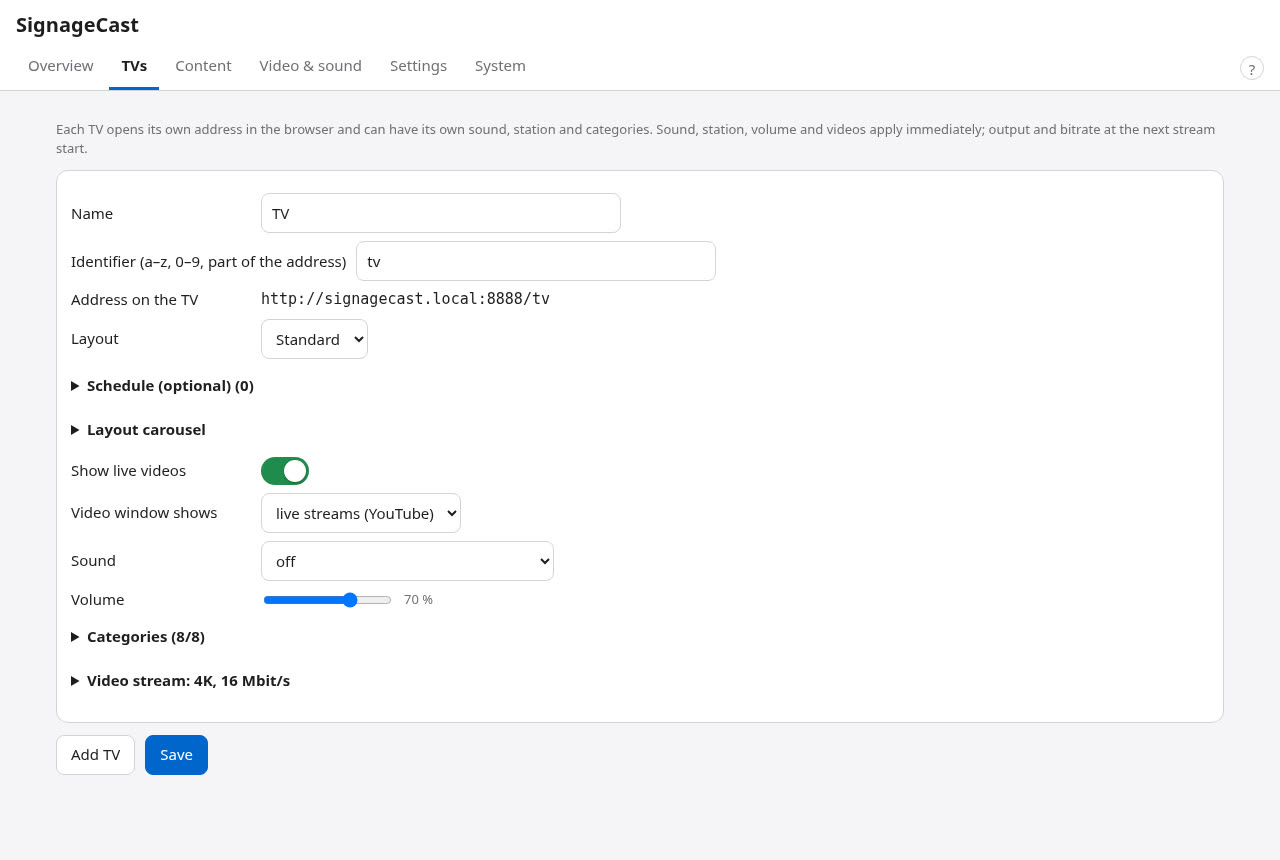
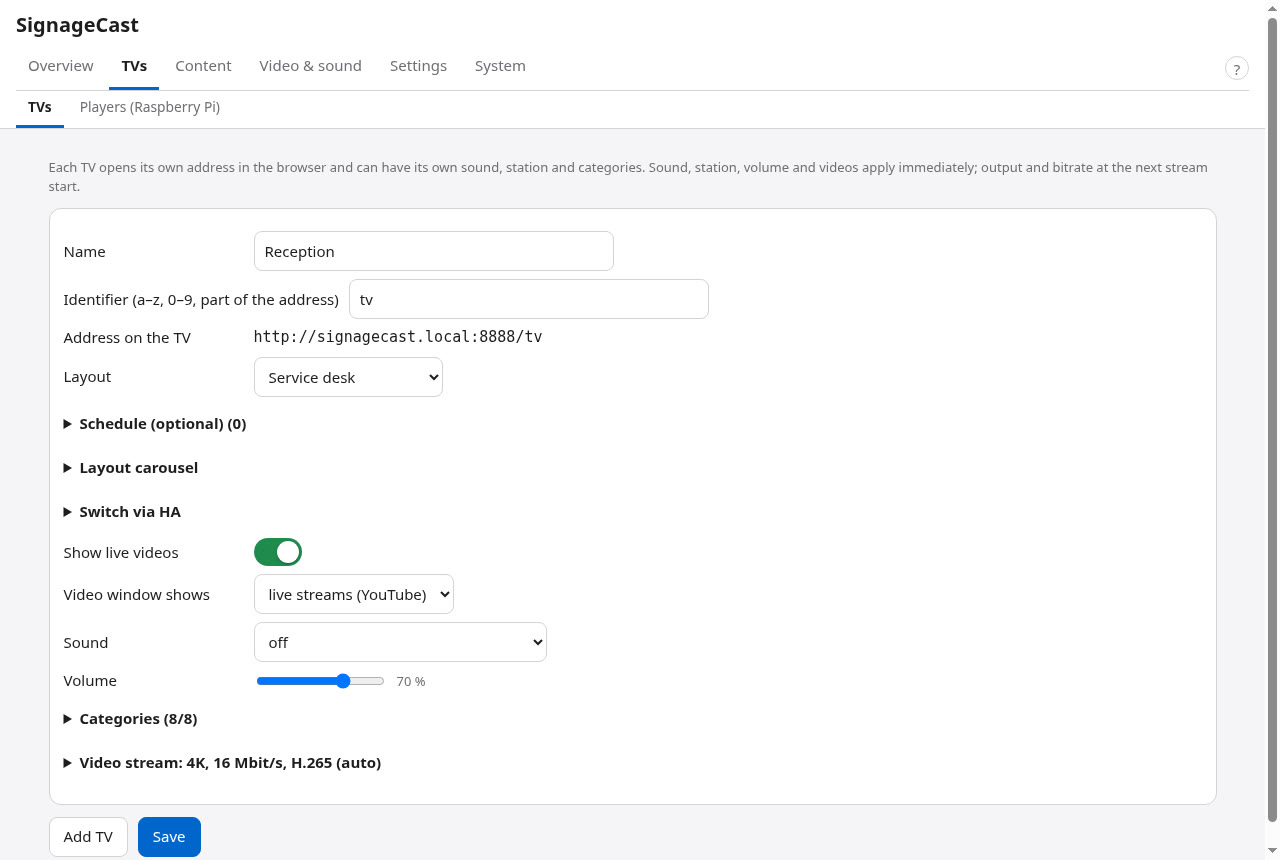
Tour: Bilder für 0.20–0.23 (PDF, Webseite als Foto, Zeitraum, Notfall, Kodierung, Raspberry-Pi-Player)
Neu: Empfangs-Layout am Fernseher, Notfall-Vollbild, Kodierung je Fernseher,
Player-Seite (simulierter Pi), Editor mit Zeitraum; Bild „TVs“ neu aufgenommen.
Überschriften neu nummeriert, deutsche Kurzfassung ergänzt.

Claude-Session: https://claude.ai/code/session_01LNDhmfSQXqarshduJ2BAH1

diff --git a/docs/TOUR.md b/docs/TOUR.md
@@ -2,7 +2,7 @@
 
 A walk through SignageCast: what the TV shows and how you set it up in the browser. All pictures are from a demo
 installation (location Berlin, public example data, no Home Assistant connected). The admin pictures show versions
-0.17–0.19 with the six areas Overview, TVs, Content, Video & sound, Settings and System.
+0.17–0.23 with the six areas Overview, TVs, Content, Video & sound, Settings and System.
 
 [← README](../README.md) · [installation](INSTALL.md) · [manual](MANUAL.md) · [how it works](HOW-IT-WORKS.md)
 
@@ -23,30 +23,59 @@ ticker, a QR code and a countdown. Background: city picture set by time of day (
 
 ![Data dashboard on the TV](tour/02-tv-data-dashboard.jpg)
 
+### 3. Service desk with PDF, web page and period
+A reception layout: a **PDF** (price list and opening hours, the pages change by the clock), a **web page as
+screenshot** – GitHub forbids embedding, so SignageCast loads the page itself and shows a fresh picture every 30 minutes
+– and a notice with a **period**: “Closed from 24 December …” appears on 1 November and disappears by itself.
+
+![Service desk layout with PDF, web page screenshot and holiday notice](tour/02a-tv-service-desk.jpg)
+
+### 4. Emergency screen
+One click in the admin, from the announcement panel or by webhook: a red full screen with your text above every
+layout, also at night (“black”), optionally with a warning tone every 10 seconds.
+
+![Emergency screen on the TV](tour/02b-tv-emergency.jpg)
+
 ---
 
 ## The admin page
 
-### 3. Inside Cockpit
+### 5. Inside Cockpit
 On Proxmox LXC and native Debian installations the admin is a Cockpit extension – “SignageCast” is just a menu entry
 next to Cockpit's own pages. If your server already runs Cockpit, SignageCast integrates there.
 
 ![SignageCast as a menu entry in Cockpit](tour/03-cockpit.jpg)
 
-### 4. Overview
+### 6. Overview
 At the top a **to-do list**: problems first (e.g. Home Assistant not reachable), then tips (automatic backup off, no
 notification set up) – each entry links to the page where you fix it. Below, every TV with its state and sound, viewers, weather source, time check against NTP (“time from the host,
 synchronised”), video encoding (graphics unit or software fallback), Home Assistant connection, CPU, RAM, uptime.
 
 ![Overview](tour/04-overview.jpg)
 
-### 5. TVs
+### 7. TVs
 Each TV has its own address, layout, optional schedule (other layout or black at certain times), sound (radio or the
 original sound of the cams), volume, categories and video settings (4K/Full HD, bitrate).
 
 ![TV settings](tour/05-tvs.jpg)
 
-### 6. Layouts and editor
+Under *Video stream* → **Encoding (advanced)**: encoder (Automatic, Intel/AMD graphics, Quick Sync, NVENC, software),
+preset, tune and B-frames per TV. A change is tried briefly first; if it does not work here, SignageCast stays with
+“Automatic”. Fields that do not apply to the active encoder are explained right there.
+
+![Encoding settings per TV](tour/05a-encoding.jpg)
+
+### 8. Raspberry Pi as player (experimental)
+TVs → *Players (Raspberry Pi)*: a Pi at the TV plays the finished stream via HDMI – also on TVs without a usable
+browser. Enter a name, pick the TV and the network (LAN or Wi-Fi), download a ready image and write it to an SD card;
+nothing to type on the Pi. Afterwards every Pi is managed here: online state, model, IP, Wi-Fi signal, screen, video,
+temperature, a screenshot of what it shows, buttons for screenshot, TV on/off (HDMI-CEC), restart and system update,
+and Wi-Fi changes with automatic return to the old network. The Pi in this picture is simulated – the player has not
+been tested on real hardware yet ([details](PLAYER.md)).
+
+![Players page with one Raspberry Pi](tour/05b-players.jpg)
+
+### 9. Layouts and editor
 Content → Layouts starts with all layouts as tiles – mini preview, on which TV each one is shown, edit, and copy /
 export / delete in the “⋯” menu. “New layout” asks for a name and a starting point (empty, template or copy), so an
 existing layout is never overwritten.
@@ -59,77 +88,83 @@ data source's response. Click the same spot again to reach stacked elements, Tab
 
 ![Layout editor with layers and path picker](tour/06-layout-editor.jpg)
 
-### 7. Data sources
+Every element can be limited to a **period** (“Only during …”: date, optionally with time) – the ⏱ in the layers and on
+the canvas marks it. New elements since 0.20: **PDF** (up to 50 pages) and **web page** with the display “Screenshot”
+for pages that forbid embedding.
+
+![Layout editor: text with a period](tour/06b-editor-period.jpg)
+
+### 10. Data sources
 Your own JSON APIs, RSS/Atom feeds, pictures, iCal calendars and cameras, fetched by the container at the interval you
 choose. “View data” shows the response as a tree; a click copies the path for use in elements and placeholders.
 
 ![Data sources with response tree](tour/07-data-sources.jpg)
 
-### 8. Import from curl
+### 11. Import from curl
 Paste a `curl` command from an API guide – address, method and headers are filled in, `Authorization` is marked as a
 secret automatically (shown as •••• after saving, kept out of backups unless you choose otherwise). The command is only
 parsed, never executed.
 
 ![Data source created from a curl command](tour/08-curl-import.jpg)
 
-### 9. Streams
+### 12. Streams
 The built-in list of wildlife and nature live streams, plus streams found by the nightly search. Quality is measured
 while playing; streams that stall or only deliver low resolution get strikes and are skipped. Protect favourites,
 reject unwanted ones.
 
 ![Stream list](tour/09-streams.jpg)
 
-### 10. Radio
+### 13. Radio
 Your own stations (MP3/AAC, also .m3u/.pls), suggestions for your location from radio-browser.info, a buffer that
 bridges short dropouts.
 
 ![Radio stations](tour/10-radio.jpg)
 
-### 11. Clips
+### 14. Clips
 At fixed minutes a clip interrupts the rotation – e.g. the German news “tagesschau in 100 Sekunden”. Buffer: the
 container preloads each new edition (complete or only the first MB), so the clip plays without stalling.
 
 ![Clip settings with buffer](tour/11-clips.jpg)
 
-### 12. Settings → General
+### 15. Settings → General
 Language and weather source, location by place search, time source: NTP server (default: the country pool) and time
 zone – if the host keeps its clock synchronised, nothing is corrected. Home Assistant has its own page next to it.
 Unsaved changes are marked on their card, and you are asked before leaving the page.
 
 ![Settings: display, location and time source](tour/12-settings.jpg)
 
-### 13. Updates
+### 16. Updates
 System (Debian) and SignageCast updates with one click or automatically within a maintenance window, only while
 nobody is watching. Releases are signed; an update is installed only with a valid signature and returns to the
 previous version automatically if SignageCast does not run afterwards.
 
 ![Updates](tour/13-updates.jpg)
 
-### 14. Backup
+### 17. Backup
 A ZIP with settings, stream list, pictures and chart history. You are asked explicitly whether credentials and
 passwords should be included – then the ZIP is AES-256 encrypted and a strong password is required. Automatic backups
 daily or weekly; restore in the admin or when installing a new instance.
 
 ![Backup with encryption](tour/14-backup.jpg)
 
-### 15. Docker / Podman
+### 18. Docker / Podman
 In the container image there is no Cockpit: the same admin page is served with its own login on port 19090; the
 initial password is printed in the container log.
 
 ![Login page of the container image](tour/15-docker-login.jpg)
 
-### 16. On the phone
+### 19. On the phone
 The admin works on a phone as well – the areas become one menu; switch elements on and off, change sizes, sound, sources.
 
 <img src="tour/16-mobile.jpg" width="320" alt="Admin on a phone">
 
-### 17. Notifications and webhook
+### 20. Notifications and webhook
 Telegram, e-mail (SMTP) and Home Assistant, each with a test button; rarely needed options under “Advanced”. Below,
 the webhook for short messages on the TVs (key shown only once).
 
 ![Notifications and webhook](tour/17-notifications.jpg)
 
-### 18. Performance test
+### 21. Performance test
 System → Performance measures for 10 seconds how smoothly every running TV is rendered and encoded – frames/s of the
 TV page and of the encoder, speed, duplicated frames, CPU per TV, memory, graphics unit – and gives concrete
 recommendations. Here a deliberately overloaded 2-core test container. A second page, opened on the playback device,
@@ -137,7 +172,7 @@ measures transfer and playback there.
 
 ![Performance test with recommendations](tour/18-performance.jpg)
 
-### 19. Announcement panel
+### 22. Announcement panel
 Settings → Announcements: accounts with their own password and the TVs they may reach, the voice (offline with Piper:
 Kerstin or Thorsten), chime and templates. The reception opens `http://<IP>:8890/pult` – it can only send and end
 announcements, nothing else.
@@ -150,7 +185,9 @@ announcements, nothing else.
 
 Die Verwaltung ist seit 0.17 in sechs Bereiche gegliedert (Übersicht mit „Zu erledigen“, Fernseher, Inhalte,
 Video & Ton, Einstellungen, System). Neu seit 0.17–0.19: Layouts-Übersicht mit Kacheln, Ebenen im Editor,
-Leistungstest mit Empfehlungen und das Durchsage-Pult. Die Tour zeigt zuerst zwei Fernseher – Live-Tierkamera mit Wetter und eigenen Daten (Rheinpegel, Bitcoin, Countdown)
+Leistungstest mit Empfehlungen und das Durchsage-Pult. Neu seit 0.20–0.23: Empfangs-Layout mit PDF, Webseite als
+Bildschirmfoto und Hinweis mit Zeitraum, das rote Notfall-Vollbild, die Kodierung je Fernseher und die Seite
+„Player (Raspberry Pi)“ mit einem simulierten Pi (am echten Gerät noch nicht getestet). Die Tour zeigt zuerst zwei Fernseher – Live-Tierkamera mit Wetter und eigenen Daten (Rheinpegel, Bitcoin, Countdown)
 sowie ein reines Daten-Layout (Diagramm mit echten Pegelwerten, Feiertage per iCal, Feed, QR-Code). Danach die
 Verwaltung: SignageCast als Menüpunkt in Cockpit, Übersicht mit „Zu erledigen“, Fernseher, Layout-Editor mit Pfad-Auswahl, Datenquellen
 mit Antwort-Baum und curl-Import, Streams, Radio, Einspieler mit Puffer, Verbindung mit Zeitquelle, Updates
